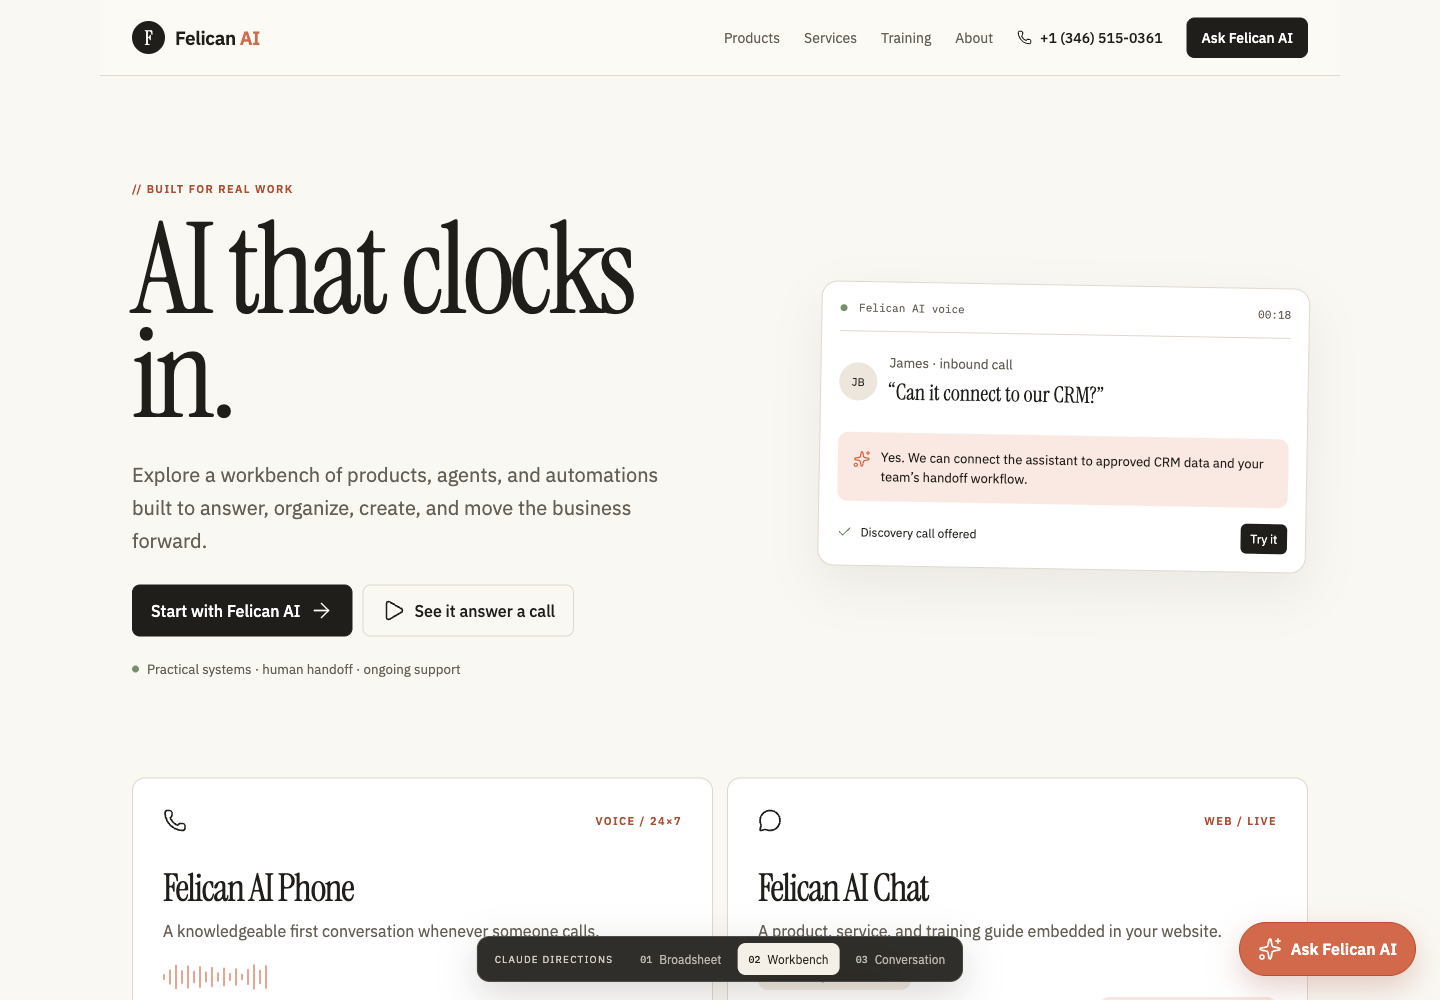
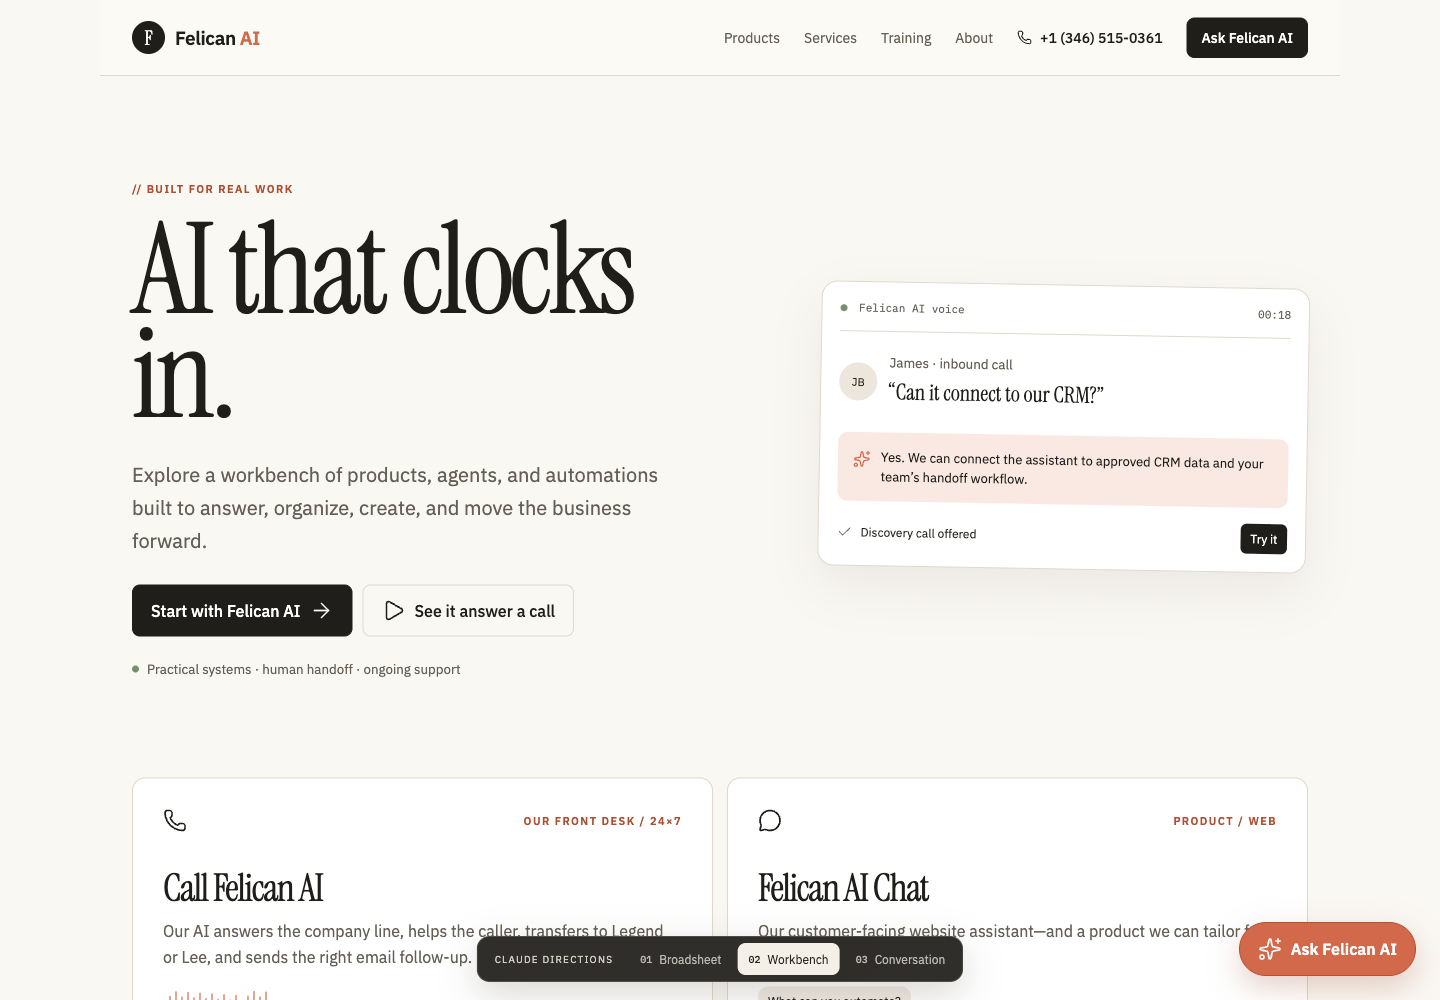
fix: position phone AI as Felican front desk

diff --git a/src/main.jsx b/src/main.jsx
@@ -7,6 +7,7 @@ import {
   Sparkles, Workflow, X, Zap,
 } from 'lucide-react';
 import './styles.css';
+import './corrections.css';
 
 const PHONE_DISPLAY = '+1 (346) 515-0361';
 const PHONE_LINK = 'tel:+13465150361';
@@ -37,7 +38,7 @@ const services = [
 
 const faqs = [
   ['Can Felican AI work with our existing software?', 'Yes. Custom integrations are a core service. We design around the systems your team already uses—CRM, email, calendars, phone, documents, databases, and specialized tools.'],
-  ['Can the phone assistant answer questions about our business?', 'That is the goal: a voice assistant grounded in approved company knowledge, with clear escalation paths when a human should take over.'],
+  ['What happens when I call Felican AI?', 'Our AI front desk answers first. It knows Felican AI, our products, services, training, and common questions. It can understand why you are calling, transfer you to Legend or Lee when appropriate, collect details, and send the right follow-up email.'],
   ['Do you offer private AI deployment?', 'Yes. Felican can design controlled AI deployments for organizations that need stronger data boundaries, access control, auditability, and governance.'],
   ['Do you train teams as well as build systems?', 'Yes. Training ranges from practical AI foundations and prompt skills to hands-on agent and automation workshops for specific teams.'],
 ];
@@ -74,18 +75,19 @@ function PhoneDemo({ onClose }) {
     <section className="phone-modal" role="dialog" aria-modal="true" aria-labelledby="phone-title" onMouseDown={e => e.stopPropagation()}>
       <button className="modal-close" onClick={onClose} aria-label="Close phone demo"><X/></button>
       <div className="phone-orb"><Phone/></div>
-      <p className="eyebrow">Felican AI · voice line</p>
-      <h2 id="phone-title">Call. Ask. Get a useful answer.</h2>
-      <p>Our AI phone experience is designed to answer questions about Felican products, services, training, and next steps—then connect you with the right person.</p>
+      <p className="eyebrow">Our AI-powered front desk</p>
+      <h2 id="phone-title">Call Felican AI. Our AI answers first.</h2>
+      <p>It knows our company, products, services, training, and common business questions. It can understand what you need, transfer you to Legend or Lee, collect a message, and send email summaries or follow-ups.</p>
       <div className={playing ? 'call-transcript playing' : 'call-transcript'}>
         <p><b>Caller</b> “Can you build an AI agent for our service team?”</p>
-        <p><b>Felican AI</b> “Yes. We can connect it to your knowledge, CRM, calendar, and handoff process. Want a quick overview or to book a discovery call?”</p>
+        <p><b>Felican AI</b> “Yes. We build agents around your company knowledge and tools. I can transfer you to Legend, connect you with Lee, or email you an overview—which would you prefer?”</p>
       </div>
+      <div className="call-outcomes"><span><Phone/> Transfer the caller</span><span><Send/> Email the details</span><span><MessageCircle/> Take a message</span></div>
       <div className="modal-actions">
         <button className="button button-outline" onClick={() => setPlaying(!playing)}>{playing ? <RotateCcw/> : <Play/>}{playing ? 'Replay demo' : 'Hear how it works'}</button>
         <a className="button" href={PHONE_LINK}><Phone/> Call {PHONE_DISPLAY}</a>
       </div>
-      <small>Prototype note: the published number comes from the current Private AI Global contact page. The production knowledge base and voice routing are the next integration phase.</small>
+      <small>Website prototype: the production voice agent will need the Felican knowledge base, transfer rules and availability for Legend and Lee, email templates, call logging, and human fallback configured before launch.</small>
     </section>
   </div>;
 }
@@ -96,7 +98,7 @@ function ChatAssistant({ onClose }) {
   const [value, setValue] = useState('');
   const answer = (input) => {
     const q = input.toLowerCase();
-    if (q.includes('phone') || q.includes('call')) return `You can call Felican AI at ${PHONE_DISPLAY}. The voice experience can answer common questions and route the conversation.`;
+    if (q.includes('phone') || q.includes('call')) return `Call us at ${PHONE_DISPLAY}. Our AI front desk answers questions about Felican AI, understands why you are calling, and can transfer you to Legend or Lee, take a message, or send an email follow-up.`;
     if (q.includes('train') || q.includes('workshop')) return 'We offer AI foundations, practical team workshops, prompt training, and hands-on agent and automation programs.';
     if (q.includes('private') || q.includes('secure')) return 'Felican designs controlled AI environments with clear access, governance, and data-handling boundaries.';
     if (q.includes('product')) return `Our current portfolio includes ${products.slice(0, 6).map(p => p.name).join(', ')}, and more. I can help narrow it down.`;
@@ -146,8 +148,8 @@ function Footer({ onCall, onChat }) {
 
 function Broadsheet({ onCall, onChat }) {
   return <div className="concept broadsheet" id="top"><Nav onCall={onCall} onChat={onChat}/><main>
-    <section className="b-hero"><aside><span>Vol. 01</span><span>Applied intelligence</span></aside><div><p className="eyebrow">A family-built AI company</p><h1>We build the AI that answers your phone, works your website, and runs the parts of business that should already be easier.</h1><div className="hero-foot"><p>Products, agents, automation, private AI, integrations, training, and practical guidance—designed around real work.</p><div><button className="button" onClick={onChat}>Meet Felican AI <ArrowRight/></button><button className="arrow-link" onClick={onCall}><CirclePlay/> Hear the phone assistant</button></div></div></div></section>
-    <section className="editorial-callout"><span>01 / Voice</span><div><p className="quote">“Thanks for calling Felican AI. Tell me what you’re trying to improve, and I’ll help you find the right place to start.”</p><button className="arrow-link" onClick={onCall}>Call {PHONE_DISPLAY} <ArrowRight/></button></div><div className="waveform">{Array.from({length:28}).map((_,i)=><i style={{height:`${18 + (i*17)%46}px`}} key={i}/>)}</div></section>
+    <section className="b-hero"><aside><span>Vol. 01</span><span>Applied intelligence</span></aside><div><p className="eyebrow">A family-built AI company</p><h1>We build practical AI products, agents, and automations that make business easier.</h1><div className="hero-foot"><p>Call Felican AI and our own AI front desk answers—ready to explain what we do, help with your question, or transfer you to Legend or Lee.</p><div><button className="button" onClick={onChat}>Meet Felican AI <ArrowRight/></button><button className="arrow-link" onClick={onCall}><CirclePlay/> Hear our AI front desk</button></div></div></div></section>
+    <section className="editorial-callout"><span>01 / Our front desk</span><div><p className="quote">“Thanks for calling Felican AI. I can answer questions, take a message, send information by email, or connect you with Legend or Lee.”</p><button className="arrow-link" onClick={onCall}>Call our AI · {PHONE_DISPLAY} <ArrowRight/></button></div><div className="waveform">{Array.from({length:28}).map((_,i)=><i style={{height:`${18 + (i*17)%46}px`}} key={i}/>)}</div></section>
     <section className="indexed-section" id="products"><header><p className="eyebrow">02 / Products</p><h2>Things we have built.</h2><p>A growing portfolio of practical AI software for operators, teams, creators, and decision-makers.</p></header><ProductIndex/></section>
     <section className="service-table" id="services"><header><p className="eyebrow">03 / Services</p><h2>From idea to working system.</h2></header><div>{services.map((s,i)=><article key={s.name}><span>{String(i+1).padStart(2,'0')}</span><s.icon/><h3>{s.name}</h3><p>{s.description}</p><ArrowRight/></article>)}</div></section>
     <TrainingBooks/><AboutBand/><FAQ/>
@@ -163,7 +165,7 @@ function Workbench({ onCall, onChat }) {
   const filtered = useMemo(() => filter === 'All' ? products : products.filter(p=>p.category===filter), [filter]);
   return <div className="concept workbench" id="top"><Nav onCall={onCall} onChat={onChat}/><main>
     <section className="w-hero"><div><span className="mono-label">// BUILT FOR REAL WORK</span><h1>AI that clocks in.</h1><p>Explore a workbench of products, agents, and automations built to answer, organize, create, and move the business forward.</p><div><button className="button" onClick={onChat}>Start with Felican AI <ArrowRight/></button><button className="button button-outline" onClick={onCall}><Play/> See it answer a call</button></div><small><i/> Practical systems · human handoff · ongoing support</small></div><PhoneWidget onCall={onCall}/></section>
-    <section className="demo-shelf"><article onClick={onCall}><div className="tile-top"><Phone/><span className="mono-label">VOICE / 24×7</span></div><h2>Felican AI Phone</h2><p>A knowledgeable first conversation whenever someone calls.</p><div className="mini-wave">{Array.from({length:18}).map((_,i)=><i style={{height:`${8 + (i*13)%28}px`}} key={i}/>)}</div></article><article onClick={onChat}><div className="tile-top"><MessageCircle/><span className="mono-label">WEB / LIVE</span></div><h2>Felican AI Chat</h2><p>A product, service, and training guide embedded in your website.</p><div className="typing-demo"><span>What can you automate?</span><span>Intake, follow-up, reporting…</span></div></article></section>
+    <section className="demo-shelf"><article onClick={onCall}><div className="tile-top"><Phone/><span className="mono-label">OUR FRONT DESK / 24×7</span></div><h2>Call Felican AI</h2><p>Our AI answers the company line, helps the caller, transfers to Legend or Lee, and sends the right email follow-up.</p><div className="mini-wave">{Array.from({length:18}).map((_,i)=><i style={{height:`${8 + (i*13)%28}px`}} key={i}/>)}</div></article><article onClick={onChat}><div className="tile-top"><MessageCircle/><span className="mono-label">PRODUCT / WEB</span></div><h2>Felican AI Chat</h2><p>Our customer-facing website assistant—and a product we can tailor for other businesses.</p><div className="typing-demo"><span>What can you automate?</span><span>Intake, follow-up, reporting…</span></div></article></section>
     <section className="product-grid-section" id="products"><header><div><p className="mono-label">// PRODUCTS</p><h2>A portfolio you can explore.</h2></div><div className="filter-pills">{['All','AI workspace','Business ops','Creative tools','Developer tools'].map(f=><button className={filter===f?'active':''} onClick={()=>setFilter(f)} key={f}>{f}</button>)}</div></header><div className="product-grid">{filtered.map(p=><article key={p.name}><div><ProductMark product={p}/><span className="live-status"><i/> {p.status}</span></div><h3>{p.name}</h3><p>{p.description}</p><footer><span>{p.category}</span><ArrowRight/></footer></article>)}</div></section>
     <section className="service-grid-section" id="services"><header><p className="mono-label">// SERVICES</p><h2>One team from discovery through optimization.</h2></header><div>{services.map((s,i)=><article key={s.name}><span className="mono-label">0{i+1}</span><s.icon/><h3>{s.name}</h3><p>{s.description}</p><button>Scope a project <ArrowRight/></button></article>)}</div></section>
     <TrainingBooks/><AboutBand/><FAQ/>
@@ -171,14 +173,14 @@ function Workbench({ onCall, onChat }) {
 }
 
 const conversationMoments = [
-  { overline: 'AFTER HOURS', ask: '“Do you have someone who can answer after 5?”', reply: 'Your Felican phone assistant can answer common questions, qualify the need, and route the next step.', title: 'A better first call.', body: 'Give every caller a thoughtful first conversation—even when your team is busy, offline, or deep in the work.' },
+  { overline: 'WHEN YOU CALL US', ask: '“Can I speak with someone about an AI agent?”', reply: 'Absolutely. I can answer a few questions now, transfer you to Legend or Lee, take a message, or email you an overview.', title: 'Our AI answers the Felican line.', body: 'It acts as our front desk: grounded in our company knowledge, ready to help, and able to bring a human into the conversation at the right moment.' },
   { overline: 'ON YOUR WEBSITE', ask: '“Which product is actually right for us?”', reply: 'Tell me your workflow, your team, and where time is getting lost. I’ll narrow it down.', title: 'A website that knows what you do.', body: 'Turn a static site into a useful guide grounded in your approved products, services, policies, and knowledge.' },
   { overline: 'IN THE BACKGROUND', ask: '“Why are we still moving this by hand?”', reply: 'We can connect the intake, document, CRM, follow-up, and reporting steps into one managed workflow.', title: 'Less copy. Less paste. Less chasing.', body: 'Agents and automations can coordinate the routine work while your team stays in control of the important calls.' },
 ];
 
 function Conversation({ onCall, onChat }) {
   return <div className="concept conversation" id="top"><div className="scroll-progress"/><Nav onCall={onCall} onChat={onChat}/><main>
-    <section className="c-hero"><p className="eyebrow">A conversation with Felican AI</p><h1>Hear it answer.</h1><p className="lede">The easiest way to understand useful AI is to talk to it.</p><button className="audio-player" onClick={onCall}><span><Play/></span><div className="audio-wave">{Array.from({length:42}).map((_,i)=><i style={{height:`${9 + (i*19)%42}px`}} key={i}/>)}</div><time>0:20</time></button><div className="transcript-preview"><p><b>Felican AI</b></p><p>“Hi—tell me what you’re trying to make easier.”</p></div><button className="arrow-link" onClick={onCall}>Call live · {PHONE_DISPLAY} <ArrowRight/></button></section>
+    <section className="c-hero"><p className="eyebrow">Call the Felican AI front desk</p><h1>Our AI answers.</h1><p className="lede">Ask about our company, products, services, or training—or have it connect you with us.</p><button className="audio-player" onClick={onCall}><span><Play/></span><div className="audio-wave">{Array.from({length:42}).map((_,i)=><i style={{height:`${9 + (i*19)%42}px`}} key={i}/>)}</div><time>0:20</time></button><div className="transcript-preview"><p><b>Felican AI</b></p><p>“I can help with that, transfer you to Legend or Lee, or send the details by email.”</p></div><button className="arrow-link" onClick={onCall}>Call our AI · {PHONE_DISPLAY} <ArrowRight/></button></section>
     <section className="story-intro"><p>Every useful system starts with a real conversation: what is happening now, what keeps getting stuck, and what should feel easier on the other side.</p></section>
     <section className="conversation-moments">{conversationMoments.map((m,i)=><article key={m.overline} className={i%2?'reverse':''}><p className="eyebrow">{String(i+1).padStart(2,'0')} · {m.overline}</p><div className="exchange"><p className="ask">{m.ask}</p><p className="reply"><Sparkles/>{m.reply}</p></div><div className="moment-copy"><h2>{m.title}</h2><p>{m.body}</p><button className="arrow-link">See how it works <ArrowRight/></button></div></article>)}</section>
     <section className="private-diagram"><div><p className="eyebrow">04 · BEHIND YOUR BOUNDARIES</p><h2>Private AI, designed around control.</h2><p>For sensitive teams and regulated workflows, Felican can design AI environments with clear access, approved knowledge, auditability, and controlled integrations.</p><button className="arrow-link">Explore private AI <ArrowRight/></button></div><div className="boundary"><span>Your environment</span><div><LockKeyhole/><b>Company knowledge</b><small>Approved documents · systems · permissions</small></div><div><BrainCircuit/><b>Felican AI layer</b><small>Models · agents · tools · governance</small></div></div></section>

diff --git a/src/App.test.jsx b/src/App.test.jsx
@@ -8,8 +8,16 @@ afterEach(cleanup);
 describe('Felican AI concept site', () => {
   it('renders the default Broadsheet concept', () => {
     render(<App />);
-    expect(screen.getByText(/We build the AI that answers your phone/i)).toBeInTheDocument();
+    expect(screen.getByText(/We build practical AI products/i)).toBeInTheDocument();
     expect(screen.getByText('Relay')).toBeInTheDocument();
+  });
+
+  it('positions the company phone AI as Felican’s front desk', () => {
+    render(<App />);
+    fireEvent.click(screen.getByText(/Hear our AI front desk/i));
+    expect(screen.getByText(/Our AI answers first/i)).toBeInTheDocument();
+    expect(screen.getByText(/Transfer the caller/i)).toBeInTheDocument();
+    expect(screen.getByText(/Email the details/i)).toBeInTheDocument();
   });
 
   it('switches to the Workbench concept', () => {

diff --git a/src/corrections.css b/src/corrections.css
@@ -1,0 +1,23 @@
+.call-outcomes {
+  display: flex;
+  gap: 8px;
+  flex-wrap: wrap;
+  margin: -12px 0 24px;
+}
+
+.call-outcomes span {
+  display: flex;
+  align-items: center;
+  gap: 6px;
+  border: 1px solid var(--rule);
+  background: #f4efe7;
+  padding: 8px 10px;
+  border-radius: 999px;
+  font-size: 11px;
+  color: var(--muted);
+}
+
+.call-outcomes svg {
+  width: 14px;
+  color: var(--coral);
+}
